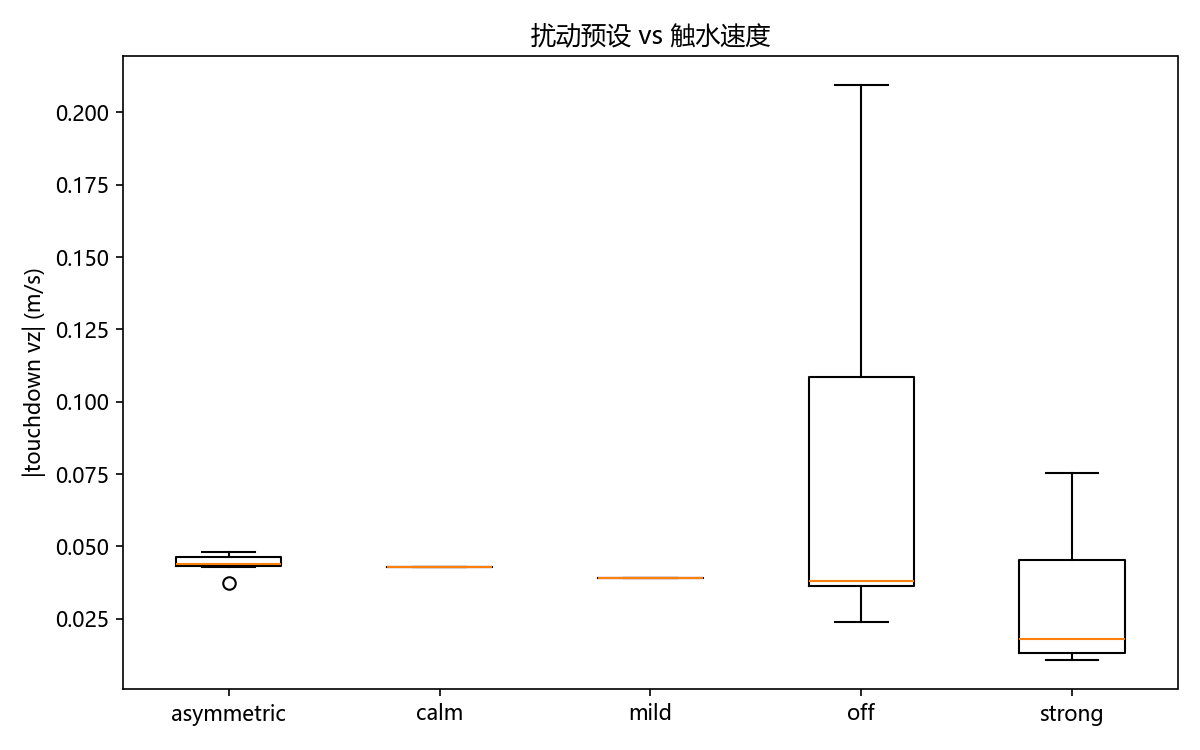
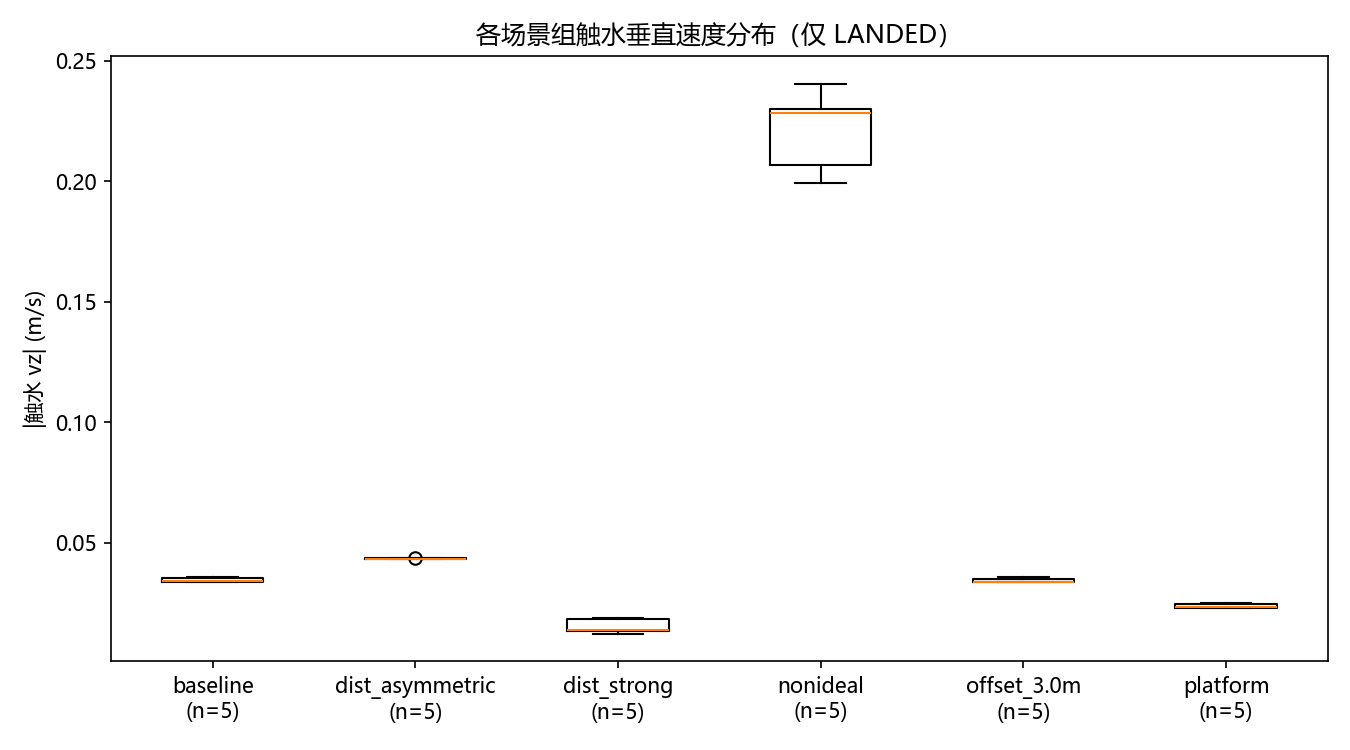
fix: 箱线图按场景组分 组并改用最终验证数据，group_key 识别 fv_ 标签

diff --git a/analysis/plot_report.py b/analysis/plot_report.py
@@ -76,6 +76,7 @@ def collect_timeseries(batch_dir: Path) -> dict:
 
 
 def build_landing_points(batch_dir: Path) -> list[dict]:
+    from analysis.analyze import group_key
     pts = []
     for d in sorted(batch_dir.iterdir()):
         csv_path = d / "samples.csv"
@@ -104,6 +105,7 @@ def build_landing_points(batch_dir: Path) -> list[dict]:
             "relative": has_target,
             "outcome": meta.get("outcome", "UNKNOWN"),
             "group": meta.get("scenario", {}).get("disturbance_preset", "off"),
+            "scenario_group": group_key(meta),
         }
         if "horizontal_error_m" in last:
             pt["horizontal_error_m"] = float(last["horizontal_error_m"])
@@ -153,16 +155,18 @@ def plot_landing_scatter(points: list[dict], out_png: str) -> None:
 
 
 def plot_disturbance_boxplot(points: list[dict], out_png: str) -> None:
-    if not points:
-        return  # 无数据：跳过，避免对空输入画箱线图
+    landed = [p for p in points if p.get("outcome") == "LANDED"]
+    if not landed:
+        return  # 无有效落地样本：跳过
     by_group: dict[str, list[float]] = {}
-    for p in points:
-        by_group.setdefault(p["group"], []).append(abs(p["vz"]))
+    for p in landed:
+        by_group.setdefault(p["scenario_group"], []).append(abs(p["vz"]))
     groups = sorted(by_group)
-    fig, ax = plt.subplots(figsize=(8, 5))
-    ax.boxplot([by_group[g] for g in groups], tick_labels=groups)
-    ax.set_ylabel("|touchdown vz| (m/s)")
-    ax.set_title("扰动预设 vs 触水速度")
+    data = [by_group[g] for g in groups]
+    fig, ax = plt.subplots(figsize=(9, 5))
+    ax.boxplot(data, tick_labels=[f"{g}\n(n={len(d)})" for g, d in zip(groups, data)])
+    ax.set_ylabel("|触水 vz| (m/s)")
+    ax.set_title("各场景组触水垂直速度分布（仅 LANDED）")
     fig.tight_layout()
     fig.savefig(out_png, dpi=150)
     plt.close(fig)

diff --git a/analysis/analyze.py b/analysis/analyze.py
@@ -26,7 +26,15 @@ def load_metas(batch_dir: Path) -> list[dict]:
 
 def group_key(meta: dict) -> str:
     s = meta.get("scenario", {})
-    if meta.get("tag", "").startswith("baseline"):
+    tag = meta.get("tag", "")
+    if tag.startswith("fv_"):
+        word = tag[len("fv_"):].split("_")[0]
+        mapping = {"baseline": "baseline", "strong": "dist_strong",
+                   "asymmetric": "dist_asymmetric", "nonideal": "nonideal",
+                   "offset": "offset_3.0m", "platform": "platform"}
+        if word in mapping:
+            return mapping[word]
+    if tag.startswith("baseline"):
         return "baseline"
     if s.get("platform_vx_m_s", 0.0) != 0.0:
         return "platform"

diff --git a/data/report/fv_summary.md b/data/report/fv_summary.md
@@ -1,0 +1,10 @@
+# 批量起降结果汇总
+
+| 分组 | n | 成功 | 成功率 | 触水 vz(m/s) | 落点偏差(m) | 最大横滚(deg) | 中止原因 |
+|---|---|---|---|---|---|---|---|
+| baseline | 5 | 5 | 1.00 | -0.0345±0.0009 | 0.0036±0.0 | 8.6231±0.0027 |  |
+| dist_asymmetric | 5 | 5 | 1.00 | -0.0434±0.0002 | 0.0037±0.0001 | 8.5667±0.0078 |  |
+| dist_strong | 5 | 5 | 1.00 | -0.0153±0.003 | 0.003±0.0003 | 8.5503±0.0229 |  |
+| nonideal | 5 | 5 | 1.00 | -0.221±0.0172 | 0.0036±0.0017 | 8.5744±0.0191 |  |
+| offset_3.0m | 5 | 5 | 1.00 | -0.0343±0.001 | 0.0045±0.0 | 9.2175±0.0153 |  |
+| platform | 5 | 5 | 1.00 | 0.0238±0.0009 | 0.1471±0.0004 | 9.2653±0.0072 |  |
